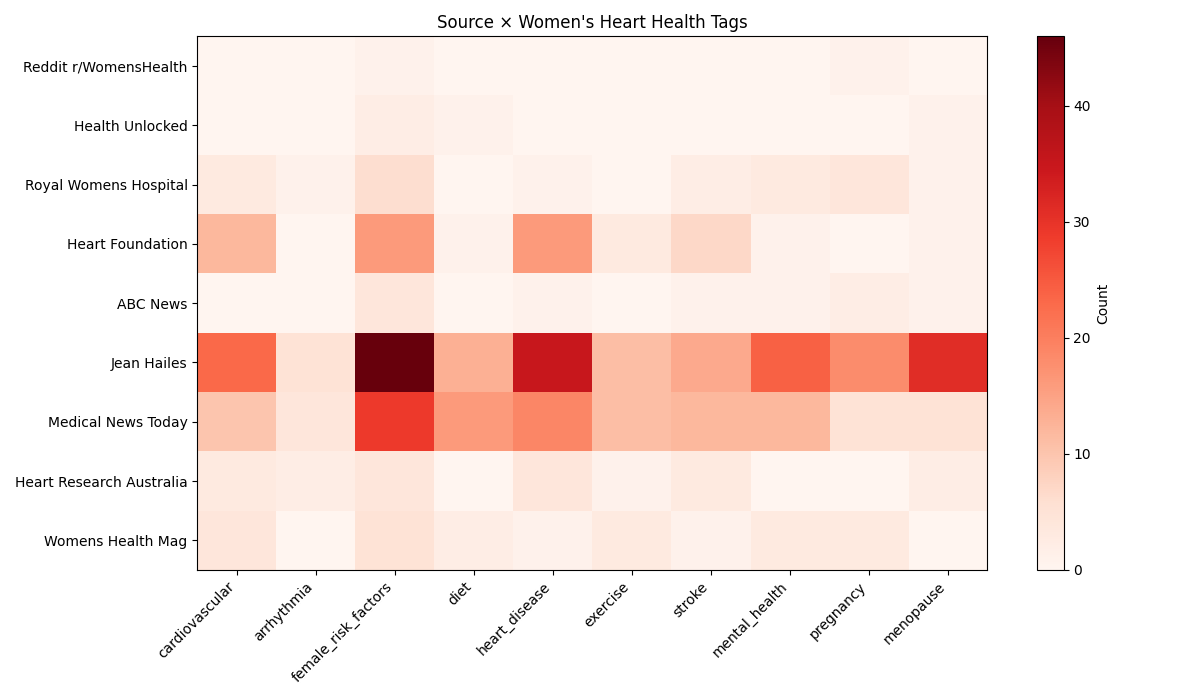
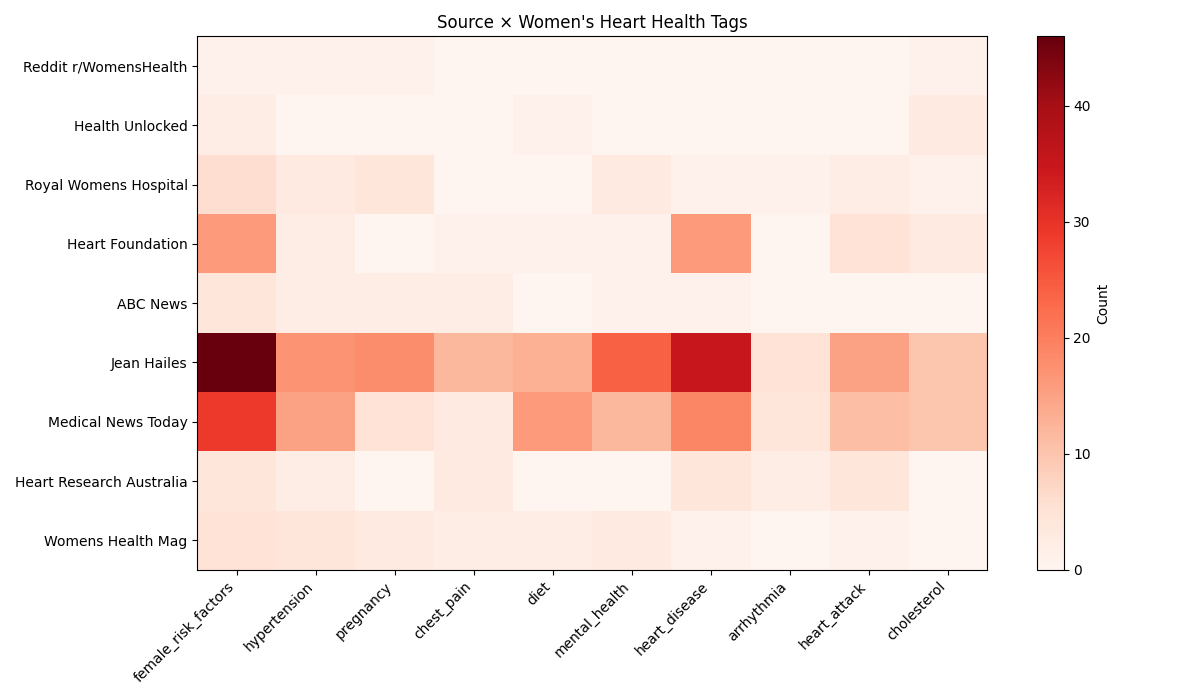
more stats

diff --git a/scripts/analysis.py b/scripts/analysis.py
@@ -741,11 +741,9 @@ def create_sentiment_tag_heatmap(
     women_tag_totals,
     women_sentiment_totals
 ):
-
     sentiments = list(
         women_sentiment_totals.keys()
     )
-
     top_tags = [
         tag for tag, _ in sorted(
             women_tag_totals.items(),
@@ -753,52 +751,38 @@ def create_sentiment_tag_heatmap(
             reverse=True,
         )[:10]
     ]
-
     if not sentiments or not top_tags:
         return
 
     matrix = []
-
     for sentiment in sentiments:
-
         sentiment_total = (
             women_sentiment_totals[sentiment]
         )
-
         row = []
-
         for tag in top_tags:
-
             tag_total = women_tag_totals[tag]
-
             value = min(
                 tag_total,
                 sentiment_total
             )
 
             row.append(value)
-
         matrix.append(row)
-
     matrix = np.array(matrix)
-
     plt.figure(figsize=(10, 5))
-
     plt.imshow(
         matrix,
         aspect="auto",
         cmap="Purples"
     )
-
     plt.colorbar(label="Relative Strength")
-
     plt.xticks(
         range(len(top_tags)),
         top_tags,
         rotation=45,
         ha="right"
     )
-
     plt.yticks(
         range(len(sentiments)),
         sentiments
@@ -1100,6 +1084,151 @@ def create_source_topic_percentage_chart(
     plt.close()
     print(f"Saved: {path}")
 
+def create_sentiment_by_source_chart(sentiment_matrix, source_totals):
+    sources = list(sentiment_matrix.keys())
+    sentiments = ["positive", "neutral", "negative"]
+    colors = ["#4CAF50", "#90A4AE", "#E57373"]
+
+    proportions = {s: [] for s in sentiments}
+
+    for source in sources:
+        total = sum(sentiment_matrix[source].values())
+        for sentiment in sentiments:
+            count = sentiment_matrix[source].get(sentiment, 0)
+            proportions[sentiment].append(
+                (count / total * 100) if total else 0
+            )
+
+    x = np.arange(len(sources))
+    fig, ax = plt.subplots(figsize=(12, 6))
+
+    bottom = np.zeros(len(sources))
+    for sentiment, color in zip(sentiments, colors):
+        values = np.array(proportions[sentiment])
+        ax.bar(x, values, bottom=bottom, label=sentiment.title(), color=color)
+        for i, (v, b) in enumerate(zip(values, bottom)):
+            if v > 5:
+                ax.text(
+                    i, b + v / 2, f"{v:.0f}%",
+                    ha="center", va="center",
+                    fontsize=8, color="white", fontweight="bold"
+                )
+        bottom += values
+
+    ax.set_xticks(x)
+    ax.set_xticklabels(sources, rotation=30, ha="right")
+    ax.set_ylabel("Percentage of Articles")
+    ax.set_title("Sentiment Distribution by Source (100% Stacked)")
+    ax.set_ylim(0, 100)
+    ax.legend(loc="upper right")
+    plt.tight_layout()
+
+    path = CHART_DIR / "sentiment_by_source.png"
+    plt.savefig(path)
+    plt.close()
+    print(f"Saved chart: {path}")
+
+def create_whh_cardiovascular_ratio_chart(topic_matrix):
+    sources = []
+    ratios = []
+
+    for source, topics in topic_matrix.items():
+        hh = topics.get("heart_health", 0)
+        whh = topics.get("women_heart_health", 0)
+        total_cardio = hh + whh
+        if total_cardio == 0:
+            continue
+        ratio = (whh / total_cardio) * 100
+        sources.append(source)
+        ratios.append(ratio)
+
+    paired = sorted(zip(ratios, sources), reverse=True)
+    ratios, sources = zip(*paired)
+
+    fig, ax = plt.subplots(figsize=(10, 6))
+    bars = ax.barh(sources, ratios, color="#E57373")
+
+    for bar, ratio in zip(bars, ratios):
+        ax.text(
+            bar.get_width() + 0.5, bar.get_y() + bar.get_height() / 2,
+            f"{ratio:.1f}%",
+            va="center", fontsize=9
+        )
+
+    ax.axvline(x=26.8, color="black", linestyle="--", linewidth=1,
+               label="Dataset average (26.8%)")
+    ax.set_xlabel("WHH as % of Cardiovascular Content")
+    ax.set_title("Women's Heart Health as Share of Cardiovascular Content by Source")
+    ax.set_xlim(0, 110)
+    ax.legend()
+    plt.tight_layout()
+
+    path = CHART_DIR / "whh_cardiovascular_ratio.png"
+    plt.savefig(path)
+    plt.close()
+    print(f"Saved chart: {path}")
+
+SOURCE_GROUPS = {
+    "Institutional": [
+        "Jean Hailes",
+        "Heart Foundation",
+        "Royal Womens Hospital",
+        "Heart Research Australia",
+    ],
+    "News & Media": [
+        "ABC News",
+        "Medical News Today",
+        "Womens Health Mag",
+    ],
+    "Community": [
+        "Health Unlocked",
+        "Reddit r/WomensHealth",
+    ],
+}
+
+def print_source_type_comparison(topic_matrix, sentiment_matrix, source_totals):
+    print_section("SOURCE TYPE AGGREGATED COMPARISON")
+
+    header = (
+        f"{'Type':15}"
+        f"{'Articles':>10}"
+        f"{'WHH % Total':>13}"
+        f"{'WHH % Cardio':>14}"
+        f"{'Positive':>10}"
+        f"{'Neutral':>10}"
+        f"{'Negative':>10}"
+    )
+    print(header)
+    print("-" * 80)
+
+    for group_name, group_sources in SOURCE_GROUPS.items():
+        total = sum(source_totals.get(s, 0) for s in group_sources)
+        hh = sum(topic_matrix[s].get("heart_health", 0) for s in group_sources)
+        whh = sum(topic_matrix[s].get("women_heart_health", 0) for s in group_sources)
+        cardio = hh + whh
+
+        whh_pct_total = (whh / total * 100) if total else 0
+        whh_pct_cardio = (whh / cardio * 100) if cardio else 0
+
+        pos = sum(sentiment_matrix[s].get("positive", 0) for s in group_sources)
+        neu = sum(sentiment_matrix[s].get("neutral", 0) for s in group_sources)
+        neg = sum(sentiment_matrix[s].get("negative", 0) for s in group_sources)
+        sent_total = pos + neu + neg
+
+        pos_pct = (pos / sent_total * 100) if sent_total else 0
+        neu_pct = (neu / sent_total * 100) if sent_total else 0
+        neg_pct = (neg / sent_total * 100) if sent_total else 0
+
+        print(
+            f"{group_name:15}"
+            f"{total:>10}"
+            f"{whh_pct_total:>12.1f}%"
+            f"{whh_pct_cardio:>13.1f}%"
+            f"{pos_pct:>9.1f}%"
+            f"{neu_pct:>9.1f}%"
+            f"{neg_pct:>9.1f}%"
+        )
+
 def print_women_representation(results):
 
     heart = results[
@@ -1284,11 +1413,9 @@ def print_source_credibility():
 def create_coverage_funnel(
     results
 ):
-
     total = results[
         "total_examined"
     ]
-
     heart = (
         results[
             "topic_totals"
@@ -1297,7 +1424,6 @@ def create_coverage_funnel(
             0
         )
     )
-
     women = (
         results[
             "topic_totals"
@@ -1306,13 +1432,11 @@ def create_coverage_funnel(
             0
         )
     )
-
     values = [
         total,
         heart,
         women
     ]
-
     labels = [
         "All",
         "Heart",
@@ -1422,6 +1546,11 @@ def main():
     create_sentiment_chart(
         results["sentiment_totals"]
     )
+    
+    create_sentiment_by_source_chart(
+        results["sentiment_matrix"],
+        results["source_totals"]
+    )
 
     create_classification_chart(
         results["classification_totals"]
@@ -1468,6 +1597,16 @@ def main():
     )
 
     print_source_comparison(
+        results["topic_matrix"]
+    )
+    
+    print_source_type_comparison(
+        results["topic_matrix"],
+        results["sentiment_matrix"],
+        results["source_totals"]
+    )
+
+    create_whh_cardiovascular_ratio_chart(
         results["topic_matrix"]
     )
 